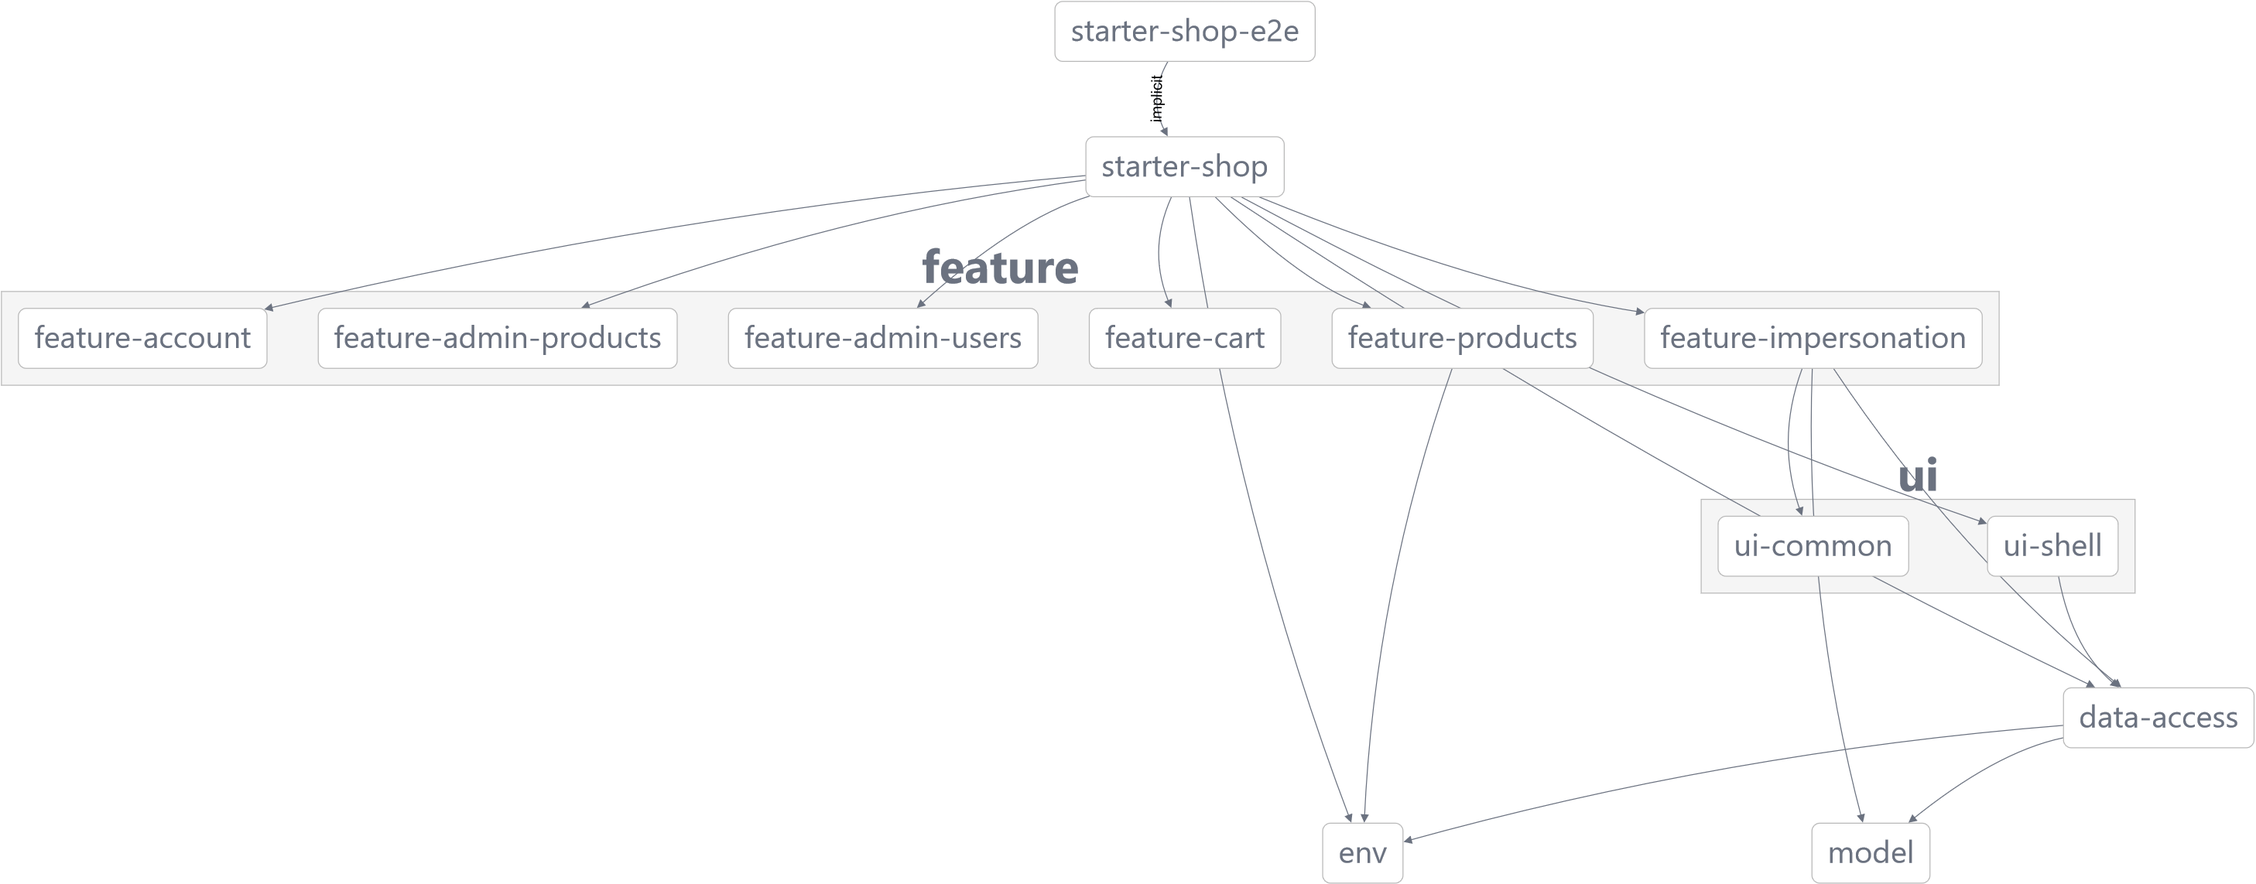
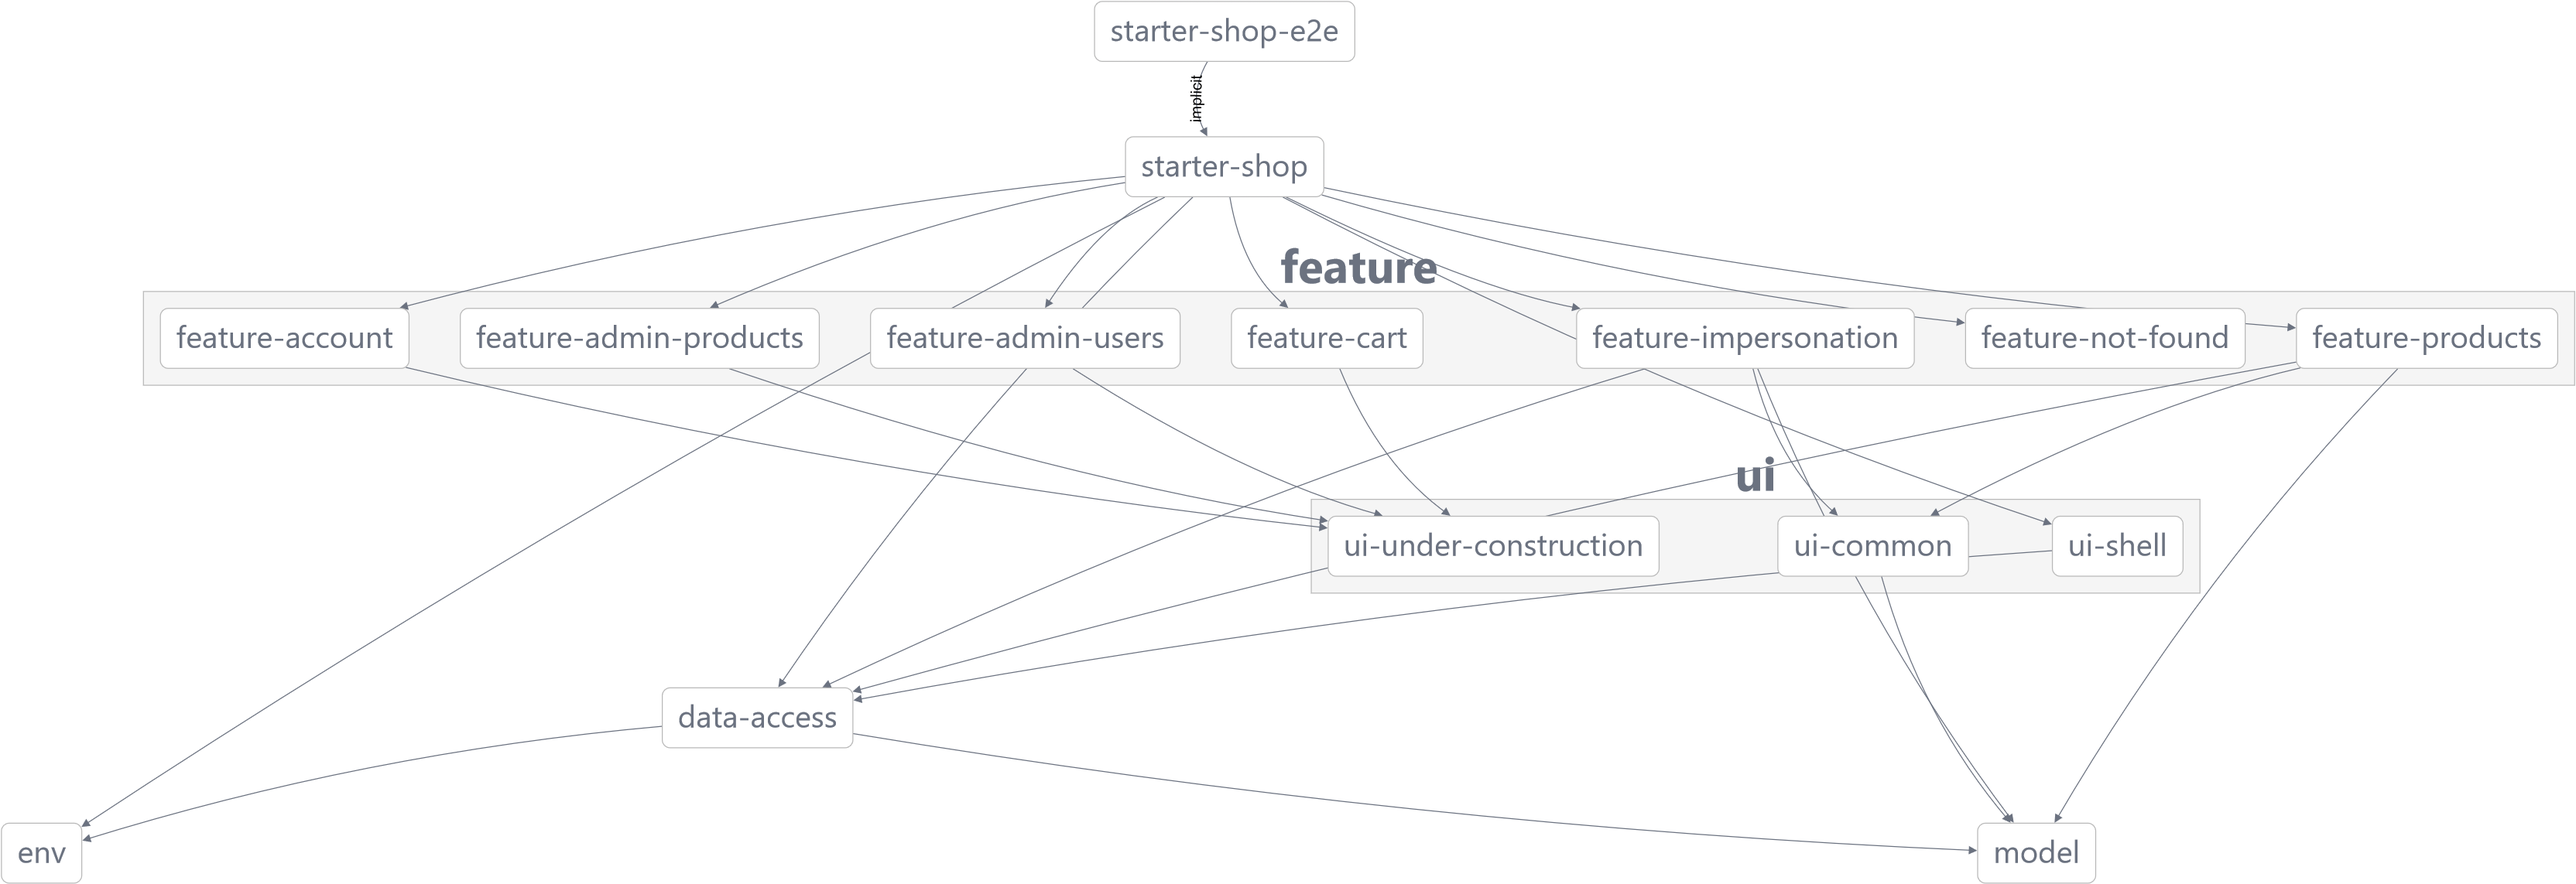
add Under Construction

diff --git a/libs/ui/under-construction/src/lib/under-construction.component.ts b/libs/ui/under-construction/src/lib/under-construction.component.ts
@@ -1,5 +1,8 @@
-import { Component, OnInit, ChangeDetectionStrategy, NgModule } from '@angular/core';
-import { CommonModule } from '@angular/common';
+import { ChangeDetectionStrategy, Component, Input, NgModule } from '@angular/core';
+import { CommonModule, Location } from '@angular/common';
+import { RouterModule } from '@angular/router';
+import { MatButtonModule } from '@angular/material/button';
+import { MatIconModule } from '@angular/material/icon';
 
 @Component({
   selector: 'starter-under-construction',
@@ -7,14 +10,20 @@ import { CommonModule } from '@angular/common';
   styleUrls: ['./under-construction.component.scss'],
   changeDetection: ChangeDetectionStrategy.OnPush,
 })
-export class UnderConstructionComponent implements OnInit {
-  constructor() {}
+export class UnderConstructionComponent {
+  @Input() title = '';
+  @Input() hasEscapeLinks = true;
 
-  ngOnInit(): void {}
+  constructor(private location: Location) {}
+
+  onBackClick(event: Event): void {
+    event.preventDefault();
+    this.location.back();
+  }
 }
 
 @NgModule({
-  imports: [CommonModule],
+  imports: [CommonModule, RouterModule, MatButtonModule, MatIconModule],
   declarations: [UnderConstructionComponent],
   exports: [UnderConstructionComponent],
 })

diff --git a/libs/feature/admin-products/src/lib/product-list/product-list.component.ts b/libs/feature/admin-products/src/lib/product-list/product-list.component.ts
@@ -1,5 +1,6 @@
 import { ChangeDetectionStrategy, Component, NgModule } from '@angular/core';
 import { CommonModule } from '@angular/common';
+import { UnderConstructionComponentModule } from '@starter/ui/under-construction';
 
 @Component({
   templateUrl: './product-list.component.html',
@@ -9,7 +10,7 @@ import { CommonModule } from '@angular/common';
 export class ProductListComponent {}
 
 @NgModule({
-  imports: [CommonModule],
+  imports: [CommonModule, UnderConstructionComponentModule],
   declarations: [ProductListComponent],
   exports: [ProductListComponent],
 })

diff --git a/libs/feature/admin-users/src/lib/user-list/user-list.component.ts b/libs/feature/admin-users/src/lib/user-list/user-list.component.ts
@@ -1,5 +1,6 @@
 import { ChangeDetectionStrategy, Component, NgModule } from '@angular/core';
 import { CommonModule } from '@angular/common';
+import { UnderConstructionComponentModule } from '@starter/ui/under-construction';
 
 @Component({
   templateUrl: './user-list.component.html',
@@ -9,7 +10,7 @@ import { CommonModule } from '@angular/common';
 export class UserListComponent {}
 
 @NgModule({
-  imports: [CommonModule],
+  imports: [CommonModule, UnderConstructionComponentModule],
   declarations: [UserListComponent],
   exports: [UserListComponent],
 })

diff --git a/libs/feature/account/src/lib/account/account.component.ts b/libs/feature/account/src/lib/account/account.component.ts
@@ -1,5 +1,6 @@
 import { ChangeDetectionStrategy, Component, NgModule } from '@angular/core';
 import { CommonModule } from '@angular/common';
+import { UnderConstructionComponentModule } from '@starter/ui/under-construction';
 
 @Component({
   templateUrl: './account.component.html',
@@ -9,7 +10,7 @@ import { CommonModule } from '@angular/common';
 export class AccountComponent {}
 
 @NgModule({
-  imports: [CommonModule],
+  imports: [CommonModule, UnderConstructionComponentModule],
   declarations: [AccountComponent],
   exports: [AccountComponent],
 })

diff --git a/libs/feature/cart/src/lib/cart/cart.component.ts b/libs/feature/cart/src/lib/cart/cart.component.ts
@@ -1,5 +1,6 @@
 import { ChangeDetectionStrategy, Component, NgModule } from '@angular/core';
 import { CommonModule } from '@angular/common';
+import { UnderConstructionComponentModule } from '@starter/ui/under-construction';
 
 @Component({
   templateUrl: './cart.component.html',
@@ -9,7 +10,7 @@ import { CommonModule } from '@angular/common';
 export class CartComponent {}
 
 @NgModule({
-  imports: [CommonModule],
+  imports: [CommonModule, UnderConstructionComponentModule],
   declarations: [CartComponent],
   exports: [CartComponent],
 })

diff --git a/libs/ui/under-construction/src/lib/under-construction.component.html b/libs/ui/under-construction/src/lib/under-construction.component.html
@@ -1,1 +1,15 @@
-<p>under-construction works!</p>
+<h1>{{ title || 'Under construction' }}</h1>
+<p>This screen is under construction.</p>
+
+<ng-content></ng-content>
+
+<p *ngIf="hasEscapeLinks">
+  <button mat-stroked-button color="accent" (click)="onBackClick($event)">
+    <mat-icon>reply</mat-icon>
+    Back
+  </button>
+  <a mat-stroked-button color="primary" routerLink="/">
+    <mat-icon>home</mat-icon>
+    Home
+  </a>
+</p>

diff --git a/libs/feature/admin-products/src/lib/product-list/product-list.component.html b/libs/feature/admin-products/src/lib/product-list/product-list.component.html
@@ -1,1 +1,1 @@
-<p>product-list works!</p>
+<starter-under-construction title="`Admin Products` is under construction"></starter-under-construction>

diff --git a/libs/feature/admin-users/src/lib/user-list/user-list.component.html b/libs/feature/admin-users/src/lib/user-list/user-list.component.html
@@ -1,1 +1,1 @@
-<p>user-list works!</p>
+<starter-under-construction title="`Admin Users` is under construction"></starter-under-construction>

diff --git a/libs/ui/under-construction/src/lib/under-construction.component.scss b/libs/ui/under-construction/src/lib/under-construction.component.scss
@@ -1,0 +1,12 @@
+:host {
+  display: block;
+  text-align: center;
+}
+
+h1 {
+  margin: 2rem 0;
+}
+
+button, a {
+  margin: 0 1rem;
+}

diff --git a/libs/feature/cart/src/lib/cart/cart.component.html b/libs/feature/cart/src/lib/cart/cart.component.html
@@ -1,1 +1,1 @@
-<p>cart works!</p>
+<starter-under-construction title="`Cart` is under construction"></starter-under-construction>

diff --git a/libs/feature/account/src/lib/account/account.component.html b/libs/feature/account/src/lib/account/account.component.html
@@ -1,1 +1,1 @@
-<p>account works!</p>
+<starter-under-construction></starter-under-construction>
